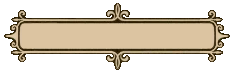
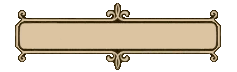
changed UI components

diff --git a/src/components/GuildScreen.tsx b/src/components/GuildScreen.tsx
@@ -105,7 +105,7 @@ export const GuildScreen: React.FC = () => {
           {/* Action Header bar */}
           <div className="flex flex-wrap items-center justify-between gap-4 mb-6 bg-stone-900/40 p-5 rounded-sm border border-stone-800">
             <div>
-              <UiTextHeader>Hired Adventurers</UiTextHeader>
+              <UiTextHeader>Guild Members</UiTextHeader>
               <p className="text-xs text-stone-400 mt-2 font-sans">
                 Manage your guild roster, equip gear, heal wounds, and prepare expedition campaigns.
               </p>